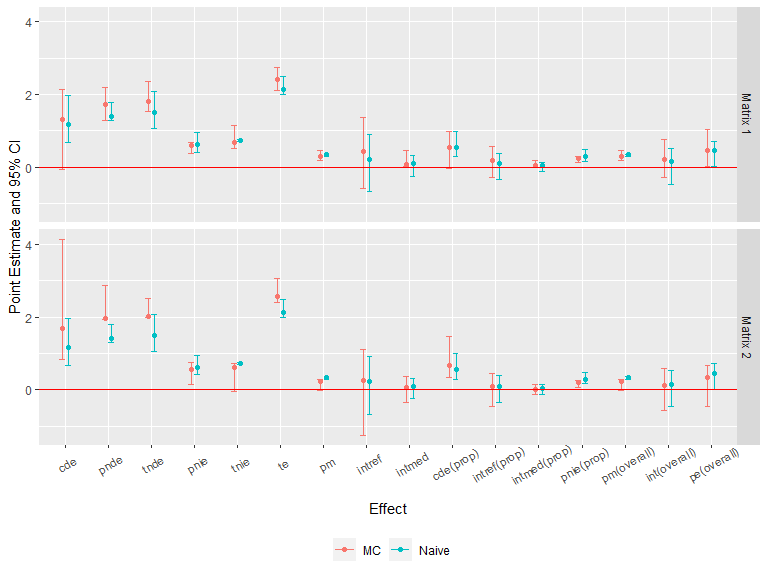
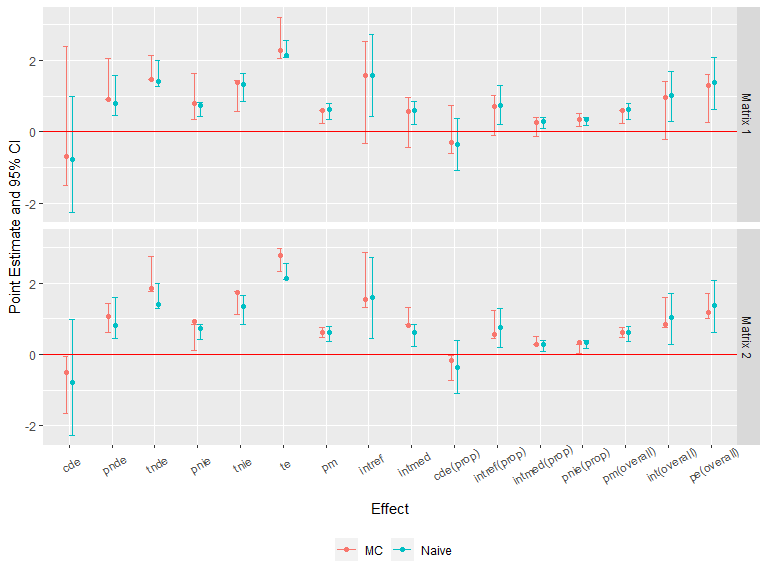
update readme

diff --git a/README.md b/README.md
@@ -306,6 +306,8 @@ al. (2017)](https://www.ncbi.nlm.nih.gov/pmc/articles/PMC5285457/).
 </ol>
 </section>
 
+------------------------------------------------------------------------
+
 Multiple Imputation
 -------------------
 
@@ -395,22 +397,22 @@ Summarizing and plotting the results:
     ##  bootstrap standard errors, percentile confidence intervals and p-values 
     ##  
     ##              Estimate Std.error  95% CIL 95% CIU  P.val    
-    ## cde           1.17459   0.53531  0.68139   1.974 <2e-16 ***
-    ## pnde          1.39918   0.19326  1.29555   1.789 <2e-16 ***
-    ## tnde          1.50415   0.42203  1.05283   2.081 <2e-16 ***
-    ## pnie          0.62669   0.23461  0.41185   0.949 <2e-16 ***
-    ## tnie          0.73166   0.02742  0.69836   0.764 <2e-16 ***
-    ## te            2.13084   0.19402  2.00179   2.493 <2e-16 ***
-    ## pm            0.34337   0.02830  0.28188   0.353 <2e-16 ***
-    ## intref        0.22459   0.65907 -0.67796   0.908    0.8    
-    ## intmed        0.10497   0.24521 -0.24273   0.319    0.8    
-    ## cde(prop)     0.55123   0.28345  0.28815   0.988 <2e-16 ***
-    ## intref(prop)  0.10540   0.29847 -0.34096   0.388    0.8    
-    ## intmed(prop)  0.04926   0.11022 -0.12237   0.136    0.8    
-    ## pnie(prop)    0.29411   0.13171  0.16537   0.475 <2e-16 ***
-    ## pm(overall)   0.34337   0.02830  0.28188   0.353 <2e-16 ***
-    ## int(overall)  0.15466   0.40716 -0.46333   0.524    0.8    
-    ## pe(overall)   0.44877   0.28345  0.01211   0.712    0.4    
+    ## cde          -0.78668   1.40883 -2.27574   0.977    0.8    
+    ## pnde          0.79954   0.48843  0.44766   1.592 <2e-16 ***
+    ## tnde          1.40087   0.28484  1.28368   1.996 <2e-16 ***
+    ## pnie          0.73118   0.19342  0.41967   0.832 <2e-16 ***
+    ## tnie          1.33251   0.33873  0.84417   1.647 <2e-16 ***
+    ## te            2.13205   0.21115  2.09417   2.565 <2e-16 ***
+    ## pm            0.62499   0.18576  0.34930   0.786 <2e-16 ***
+    ## intref        1.58622   1.04509  0.43384   2.732 <2e-16 ***
+    ## intmed        0.60133   0.27238  0.21625   0.846 <2e-16 ***
+    ## cde(prop)    -0.36898   0.64535 -1.08723   0.385    0.8    
+    ## intref(prop)  0.74399   0.50028  0.19065   1.301 <2e-16 ***
+    ## intmed(prop)  0.28204   0.13759  0.09455   0.404 <2e-16 ***
+    ## pnie(prop)    0.34295   0.08858  0.17568   0.391 <2e-16 ***
+    ## pm(overall)   0.62499   0.18576  0.34930   0.786 <2e-16 ***
+    ## int(overall)  1.02603   0.63196  0.28576   1.705 <2e-16 ***
+    ## pe(overall)   1.36898   0.64535  0.61503   2.087 <2e-16 ***
     ## ---
     ## Signif. codes:  0 '***' 0.001 '**' 0.01 '*' 0.05 '.' 0.1 ' ' 1
 
@@ -427,13 +429,13 @@ analysis for unmeasured confounding:
     ## Sensitivity Analysis For Unmeasured Confounding 
     ## 
     ## Evalues on the ratio scale: 
-    ##         estRR  lowerRR  upperRR Evalue.estRR Evalue.lowerRR Evalue.upperRR
-    ## cde  1.553689 1.048991 2.301212     2.481192       1.275687             NA
-    ## pnde 1.690263 1.466784 1.947790     2.770413       2.294233             NA
-    ## tnde 1.758151 1.289928 2.396331     2.912682       1.901472             NA
-    ## pnie 1.265029 1.064965 1.502678     1.844054       1.327996             NA
-    ## tnie 1.315838 1.289627 1.342583     1.960503       1.900782             NA
-    ## te   2.224112 1.928982 2.564397     3.874132       3.267634             NA
+    ##          estRR   lowerRR  upperRR Evalue.estRR Evalue.lowerRR Evalue.upperRR
+    ## cde  0.7404233 0.2583878 2.121721     2.038681             NA              1
+    ## pnde 1.3572288 0.9421979 1.955078     2.053534       1.000000             NA
+    ## tnde 1.7077368 1.3803267 2.112808     2.807113       2.104878             NA
+    ## pnie 1.3222426 1.1443044 1.527850     1.974993       1.550664             NA
+    ## tnie 1.6637153 1.2916687 2.142925     2.714540       1.905460             NA
+    ## te   2.2580424 1.9284396 2.643980     3.943484       3.266513             NA
 
 Assume that the continuous pre-exposure confounder was measured with
 error. Sensitivity analysis using regression calibration with a set of
@@ -455,22 +457,22 @@ Summarizing and plotting the results:
     ## 0.1
     ## Measurement error correction for measurement error 1: 
     ##              Estimate Std.error  95% CIL 95% CIU  P.val    
-    ## cde           1.17169   0.42496  1.27380   2.251 <2e-16 ***
-    ## pnde          1.40351   0.19121  1.43186   1.845 <2e-16 ***
-    ## tnde          1.51419   0.31066  1.25608   1.904 <2e-16 ***
-    ## pnie          0.62698   0.22821  0.54093   1.036 <2e-16 ***
-    ## tnie          0.73766   0.19644  0.56305   1.017 <2e-16 ***
-    ## te            2.14117   0.19242  2.04235   2.483 <2e-16 ***
-    ## pm            0.34451   0.07107  0.23773   0.411 <2e-16 ***
-    ## intref        0.23182   0.51369 -0.75049   0.442    0.8    
-    ## intmed        0.11068   0.16890 -0.21946   0.158    0.8    
-    ## cde(prop)     0.54722   0.22266  0.51941   0.979 <2e-16 ***
-    ## intref(prop)  0.10827   0.22368 -0.32552   0.181    0.8    
-    ## intmed(prop)  0.05169   0.07391 -0.09542   0.065    0.8    
-    ## pnie(prop)    0.29282   0.10164  0.22122   0.442 <2e-16 ***
-    ## pm(overall)   0.34451   0.07107  0.23773   0.411 <2e-16 ***
-    ## int(overall)  0.15996   0.29646 -0.42095   0.244    0.8    
-    ## pe(overall)   0.45278   0.22266  0.02074   0.481 <2e-16 ***
+    ## cde          -0.78910   1.34030 -1.77931   1.559    0.8    
+    ## pnde          0.84709   0.25908  0.75271   1.411 <2e-16 ***
+    ## tnde          1.34252   0.48953  0.93271   1.967 <2e-16 ***
+    ## pnie          0.64753   0.17966  0.46298   0.912 <2e-16 ***
+    ## tnie          1.14296   0.46018  0.61071   1.534 <2e-16 ***
+    ## te            1.99005   0.51288  1.43167   2.604 <2e-16 ***
+    ## pm            0.57434   0.12426  0.31389   0.594 <2e-16 ***
+    ## intref        1.63618   1.21489 -0.19095   2.768    0.4    
+    ## intmed        0.49543   0.52942 -0.27824   0.908    0.4    
+    ## cde(prop)    -0.39652   0.60040 -0.73314   0.762    0.8    
+    ## intref(prop)  0.82218   0.48180 -0.07608   1.139    0.4    
+    ## intmed(prop)  0.24896   0.21588 -0.13136   0.355    0.4    
+    ## pnie(prop)    0.32538   0.09165  0.23941   0.445 <2e-16 ***
+    ## pm(overall)   0.57434   0.12426  0.31389   0.594 <2e-16 ***
+    ## int(overall)  1.07114   0.68891 -0.20744   1.494    0.4    
+    ## pe(overall)   1.39652   0.60040  0.23781   1.733 <2e-16 ***
     ## ---
     ## Signif. codes:  0 '***' 0.001 '**' 0.01 '*' 0.05 '.' 0.1 ' ' 1
     ## ----------------------------------------------------------------
@@ -479,22 +481,22 @@ Summarizing and plotting the results:
     ## 0.2
     ## Measurement error correction for measurement error 2: 
     ##              Estimate Std.error  95% CIL 95% CIU  P.val    
-    ## cde           1.16216   0.64294  0.67874   2.213 <2e-16 ***
-    ## pnde          1.41354   0.18376  1.09612   1.527 <2e-16 ***
-    ## tnde          1.53073   0.32282  0.81324   1.564 <2e-16 ***
-    ## pnie          0.63391   0.21477  0.50265   0.993 <2e-16 ***
-    ## tnie          0.75110   0.14702  0.49137   0.867 <2e-16 ***
-    ## te            2.16464   0.23838  1.77750   2.339 <2e-16 ***
-    ## pm            0.34699   0.05818  0.25401   0.388 <2e-16 ***
-    ## intref        0.25138   0.69229 -1.08956   0.604    0.8    
-    ## intmed        0.11719   0.20510 -0.30831   0.184    0.8    
-    ## cde(prop)     0.53689   0.36890  0.33685   1.232 <2e-16 ***
-    ## intref(prop)  0.11613   0.37169 -0.61253   0.307    0.8    
-    ## intmed(prop)  0.05414   0.10893 -0.17322   0.093    0.8    
-    ## pnie(prop)    0.29285   0.12760  0.25791   0.554 <2e-16 ***
-    ## pm(overall)   0.34699   0.05818  0.25401   0.388 <2e-16 ***
-    ## int(overall)  0.17027   0.48049 -0.78575   0.400    0.8    
-    ## pe(overall)   0.46311   0.36890 -0.23206   0.663    0.4    
+    ## cde          -0.79692   0.71149 -1.62819   0.072    0.4    
+    ## pnde          0.77006   0.43487  0.39909   1.411 <2e-16 ***
+    ## tnde          1.32508   0.19581  1.15308   1.644 <2e-16 ***
+    ## pnie          0.70297   0.23189  0.47155   1.016 <2e-16 ***
+    ## tnie          1.25799   0.49959  0.69937   1.933 <2e-16 ***
+    ## te            2.02805   0.14566  1.98864   2.336 <2e-16 ***
+    ## pm            0.62030   0.20903  0.33307   0.828 <2e-16 ***
+    ## intref        1.56698   0.28874  1.33924   2.028 <2e-16 ***
+    ## intmed        0.55502   0.27505  0.22582   0.916 <2e-16 ***
+    ## cde(prop)    -0.39295   0.32013 -0.69810   0.031    0.4    
+    ## intref(prop)  0.77265   0.12074  0.63559   0.915 <2e-16 ***
+    ## intmed(prop)  0.27367   0.11656  0.10789   0.392 <2e-16 ***
+    ## pnie(prop)    0.34663   0.09681  0.22342   0.453 <2e-16 ***
+    ## pm(overall)   0.62030   0.20903  0.33307   0.828 <2e-16 ***
+    ## int(overall)  1.04632   0.23169  0.74348   1.262 <2e-16 ***
+    ## pe(overall)   1.39295   0.32013  0.96866   1.698 <2e-16 ***
     ## ---
     ## Signif. codes:  0 '***' 0.001 '**' 0.01 '*' 0.05 '.' 0.1 ' ' 1
     ## ----------------------------------------------------------------
@@ -503,22 +505,22 @@ Summarizing and plotting the results:
     ## 0.3
     ## Measurement error correction for measurement error 3: 
     ##              Estimate Std.error  95% CIL 95% CIU  P.val    
-    ## cde           1.14291   0.61185  0.36771   1.793 <2e-16 ***
-    ## pnde          1.37940   0.21990  1.16800   1.649 <2e-16 ***
-    ## tnde          1.46802   0.40561  1.17071   2.131 <2e-16 ***
-    ## pnie          0.66897   0.14360  0.47438   0.806 <2e-16 ***
-    ## tnie          0.75759   0.20441  0.52259   1.025 <2e-16 ***
-    ## te            2.13699   0.29950  1.91225   2.605 <2e-16 ***
-    ## pm            0.35451   0.07054  0.24337   0.409 <2e-16 ***
-    ## intref        0.23649   0.69522 -0.41977   1.200    0.8    
-    ## intmed        0.08862   0.25827 -0.04470   0.530    0.8    
-    ## cde(prop)     0.53482   0.30879  0.15104   0.883 <2e-16 ***
-    ## intref(prop)  0.11067   0.28828 -0.20670   0.458    0.8    
-    ## intmed(prop)  0.04147   0.09834 -0.02196   0.201    0.8    
-    ## pnie(prop)    0.31304   0.09243  0.18300   0.408 <2e-16 ***
-    ## pm(overall)   0.35451   0.07054  0.24337   0.409 <2e-16 ***
-    ## int(overall)  0.15214   0.38122 -0.22867   0.659    0.8    
-    ## pe(overall)   0.46518   0.30879  0.11729   0.849 <2e-16 ***
+    ## cde          -0.81230   1.14894 -2.17676   0.681    0.4    
+    ## pnde          0.84084   0.46021  0.43574   1.540 <2e-16 ***
+    ## tnde          1.43832   0.44325  0.93383   1.913 <2e-16 ***
+    ## pnie          0.75098   0.06495  0.52639   0.692 <2e-16 ***
+    ## tnie          1.34846   0.28643  0.93795   1.587 <2e-16 ***
+    ## te            2.18930   0.44519  1.47117   2.517 <2e-16 ***
+    ## pm            0.61593   0.14471  0.38380   0.716 <2e-16 ***
+    ## intref        1.65314   0.83842  0.84769   2.810 <2e-16 ***
+    ## intmed        0.59748   0.30369  0.31601   1.000 <2e-16 ***
+    ## cde(prop)    -0.37103   0.54104 -0.97878   0.264    0.4    
+    ## intref(prop)  0.75510   0.40316  0.35177   1.264 <2e-16 ***
+    ## intmed(prop)  0.27291   0.13383  0.13358   0.448 <2e-16 ***
+    ## pnie(prop)    0.34302   0.07358  0.24002   0.411 <2e-16 ***
+    ## pm(overall)   0.61593   0.14471  0.38380   0.716 <2e-16 ***
+    ## int(overall)  1.02801   0.53432  0.48910   1.712 <2e-16 ***
+    ## pe(overall)   1.37103   0.54104  0.73557   1.979 <2e-16 ***
     ## ---
     ## Signif. codes:  0 '***' 0.001 '**' 0.01 '*' 0.05 '.' 0.1 ' ' 1
     ## ----------------------------------------------------------------
@@ -551,23 +553,23 @@ Summarizing and plotting the results:
     ## [2,] 0.05 0.95
     ## 
     ## Measurement error correction for measurement error 1: 
-    ##               Estimate Std.error   95% CIL 95% CIU  P.val    
-    ## cde           1.299346  0.917404 -0.076859   2.124    0.4    
-    ## pnde          1.722116  0.383165  1.278920   2.192 <2e-16 ***
-    ## tnde          1.803719  0.353699  1.517920   2.360 <2e-16 ***
-    ## pnie          0.603751  0.133795  0.364847   0.684 <2e-16 ***
-    ## tnie          0.685354  0.268021  0.525898   1.142 <2e-16 ***
-    ## te            2.407470  0.282048  2.110094   2.750 <2e-16 ***
-    ## pm            0.284678  0.109453  0.195756   0.470 <2e-16 ***
-    ## intref        0.422770  0.792768 -0.595356   1.358    0.4    
-    ## intmed        0.081603  0.182351  0.012906   0.471    0.4    
-    ## cde(prop)     0.539714  0.409319 -0.027630   0.992    0.4    
-    ## intref(prop)  0.175608  0.346524 -0.282760   0.561    0.4    
-    ## intmed(prop)  0.033896  0.075237  0.004270   0.194    0.4    
-    ## pnie(prop)    0.250782  0.065678  0.135876   0.288 <2e-16 ***
-    ## pm(overall)   0.284678  0.109453  0.195756   0.470 <2e-16 ***
-    ## int(overall)  0.209503  0.410575 -0.274036   0.752    0.4    
-    ## pe(overall)   0.460286  0.409319  0.007879   1.028    0.4    
+    ##              Estimate Std.error 95% CIL 95% CIU  P.val    
+    ## cde           -0.6870    1.5940 -1.5173   2.400    0.8    
+    ## pnde           0.9054    0.5229  0.9025   2.065 <2e-16 ***
+    ## tnde           1.4796    0.3077  1.4655   2.131 <2e-16 ***
+    ## pnie           0.8037    0.5720  0.3347   1.629 <2e-16 ***
+    ## tnie           1.3779    0.4212  0.5808   1.451 <2e-16 ***
+    ## te             2.2832    0.4762  2.0622   3.217 <2e-16 ***
+    ## pm             0.6035    0.1690  0.2410   0.606 <2e-16 ***
+    ## intref         1.5924    1.1276 -0.3347   2.525    0.4    
+    ## intmed         0.5742    0.5588 -0.4378   0.970    0.4    
+    ## cde(prop)     -0.3009    0.5620 -0.6138   0.739    0.8    
+    ## intref(prop)   0.6974    0.4491 -0.0938   1.026    0.4    
+    ## intmed(prop)   0.2515    0.2092 -0.1295   0.393    0.4    
+    ## pnie(prop)     0.3520    0.1583  0.1357   0.505 <2e-16 ***
+    ## pm(overall)    0.6035    0.1690  0.2410   0.606 <2e-16 ***
+    ## int(overall)   0.9489    0.6492 -0.2213   1.417    0.4    
+    ## pe(overall)    1.3009    0.5620  0.2608   1.614 <2e-16 ***
     ## ---
     ## Signif. codes:  0 '***' 0.001 '**' 0.01 '*' 0.05 '.' 0.1 ' ' 1
     ## ----------------------------------------------------------------
@@ -579,22 +581,22 @@ Summarizing and plotting the results:
     ## 
     ## Measurement error correction for measurement error 2: 
     ##              Estimate Std.error  95% CIL 95% CIU  P.val    
-    ## cde           1.69191   1.55403  0.83724   4.125 <2e-16 ***
-    ## pnde          1.94798   0.44619  1.92078   2.870 <2e-16 ***
-    ## tnde          2.00625   0.21264  1.98168   2.522 <2e-16 ***
-    ## pnie          0.54690   0.24256  0.15710   0.741 <2e-16 ***
-    ## tnie          0.60517   0.33098 -0.05869   0.723    0.4    
-    ## te            2.55315   0.27626  2.40985   3.068 <2e-16 ***
-    ## pm            0.23703   0.12246 -0.01836   0.272    0.4    
-    ## intref        0.25607   1.12816 -1.25543   1.116    0.8    
-    ## intmed        0.05827   0.30764 -0.34757   0.359    0.8    
-    ## cde(prop)     0.66268   0.50767  0.34377   1.462 <2e-16 ***
-    ## intref(prop)  0.10030   0.41712 -0.44493   0.462    0.8    
-    ## intmed(prop)  0.02282   0.11485 -0.12370   0.136    0.8    
-    ## pnie(prop)    0.21420   0.07900  0.06391   0.243 <2e-16 ***
-    ## pm(overall)   0.23703   0.12246 -0.01836   0.272    0.4    
-    ## int(overall)  0.12312   0.52432 -0.56863   0.587    0.8    
-    ## pe(overall)   0.33732   0.50767 -0.46219   0.656    0.8    
+    ## cde          -0.50490   0.68365 -1.66771  -0.045    0.4    
+    ## pnde          1.04993   0.33608  0.62629   1.415 <2e-16 ***
+    ## tnde          1.86104   0.39744  1.76555   2.735 <2e-16 ***
+    ## pnie          0.91907   0.33686  0.10095   0.841 <2e-16 ***
+    ## tnie          1.73018   0.27907  1.12022   1.776 <2e-16 ***
+    ## te            2.78011   0.30156  2.31723   2.961 <2e-16 ***
+    ## pm            0.62234   0.11473  0.47711   0.742 <2e-16 ***
+    ## intref        1.55483   0.64003  1.30368   2.872 <2e-16 ***
+    ## intmed        0.81111   0.22953  0.83495   1.324 <2e-16 ***
+    ## cde(prop)    -0.18161   0.29228 -0.71979  -0.020    0.4    
+    ## intref(prop)  0.55927   0.30018  0.45321   1.219 <2e-16 ***
+    ## intmed(prop)  0.29175   0.09229  0.28925   0.498 <2e-16 ***
+    ## pnie(prop)    0.33059   0.12084  0.03891   0.289 <2e-16 ***
+    ## pm(overall)   0.62234   0.11473  0.47711   0.742 <2e-16 ***
+    ## int(overall)  0.85103   0.34735  0.75388   1.596 <2e-16 ***
+    ## pe(overall)   1.18161   0.29228  1.02023   1.720 <2e-16 ***
     ## ---
     ## Signif. codes:  0 '***' 0.001 '**' 0.01 '*' 0.05 '.' 0.1 ' ' 1
     ## ----------------------------------------------------------------
@@ -653,8 +655,8 @@ Schomaker M, Heumann C. Bootstrap inference when using multiple
 imputation (2018). Statistics in Medicine. 37(14): 2252 - 2266.
 
 VanderWeele TJ, Ding P. Sensitivity analysis in observational research:
-introducing the E-Value (2017). Annals of Internal Medicine. 
-167(4): 268 - 274.
+introducing the E-Value (2017). Annals of Internal Medicine. 167(4): 
+268 - 274.
 
 Smith LH, VanderWeele TJ. Mediational E-values: Approximate sensitivity
 analysis for unmeasured mediator-outcome confounding (2019).
